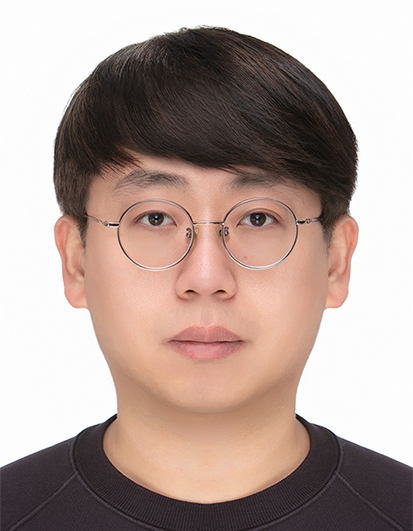
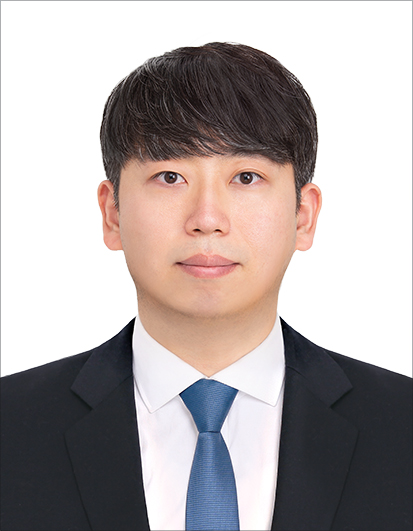
Correct project titles and refine member publication details

diff --git a/.design-preview/style-modern.css b/.design-preview/style-modern.css
@@ -338,8 +338,19 @@ body {
 .member-list .member-row:last-child:nth-child(odd) { grid-column: 1 / -1; }
 
 .member-data dd {
+  overflow: visible;
   white-space: normal;
+  overflow-wrap: anywhere;
+  text-overflow: clip;
   line-height: 1.45;
+}
+
+.member-info { padding: 15px 18px; }
+.member-info h3 { margin-bottom: 8px; }
+.member-data { gap: 3px; }
+.member-data > div {
+  grid-template-columns: 56px minmax(0, 1fr);
+  gap: 5px;
 }
 
 .portrait-placeholder {
@@ -537,87 +548,49 @@ body {
 .course-code { color: #8c4437; }
 
 .publication-list {
-  display: grid;
-  gap: 50px;
-  border: 0;
-}
-
-.publication-year-group {
-  display: grid;
-  padding-top: 24px;
-  border-top: 1px solid #b8bcba;
-  grid-template-columns: 112px minmax(0, 1fr);
-  gap: 38px;
-}
-
-.publication-year-heading h2 {
-  margin: 0;
-  color: #22292e;
-  font-size: 1.35rem;
-  font-weight: 650;
-  letter-spacing: -0.025em;
-  line-height: 1.2;
-}
-
-.publication-year-heading span {
   display: block;
-  margin-top: 7px;
-  color: #737a7e;
-  font-size: 0.7rem;
-  font-weight: 550;
+  border-top: 1px solid #b8bcba;
 }
-
-.publication-entries { min-width: 0; }
 
 .publication-item {
   position: relative;
   display: block;
-  padding: 0 0 22px;
+  padding: 19px 8px 20px;
   border: 0;
   border-bottom: 1px solid #d2d4d1;
-  margin: 0 0 21px;
+  margin: 0;
   background: transparent;
 }
 
-.publication-item:last-child { margin-bottom: 0; }
-
-.publication-item h3 {
+.publication-item h2 {
   margin: 0;
   color: #1d2226;
   font-family: var(--font-heading);
-  font-size: 1rem;
-  font-weight: 620;
+  font-size: 0.98rem;
+  font-weight: 600;
   letter-spacing: -0.015em;
-  line-height: 1.48;
+  line-height: 1.32;
 }
 
 .publication-authors {
-  margin: 7px 0 0;
+  margin: 9px 0 0;
   color: #30383d;
-  font-size: 0.9rem;
+  font-size: 0.89rem;
   font-weight: 500;
-  line-height: 1.55;
+  line-height: 1.4;
 }
 
 .publication-venue {
-  margin: 4px 0 0;
-  color: #4f585d;
-  font-size: 0.88rem;
-  line-height: 1.5;
-}
-
-.publication-type {
-  display: inline-block;
-  margin-top: 8px;
-  border-radius: 0;
-  color: #565d62;
-  background: transparent;
-  font-size: 0.68rem;
-  font-weight: 650;
+  margin: 6px 0 0;
+  color: #485157;
+  font-size: 0.87rem;
+  font-style: normal;
+  font-weight: 500;
+  line-height: 1.4;
 }
 .publication-link { color: inherit; text-decoration: none; }
 .publication-link:hover { background: transparent; }
-.publication-link:hover h3 { color: #8c4437; }
+.publication-link:hover h2 { color: #8c4437; }
 
 .project-list {
   display: grid;
@@ -816,9 +789,6 @@ body {
   .section { padding: 70px 0 82px; }
   .section-heading { gap: 18px; }
   .news-grid { gap: 42px; }
-  .publication-year-group { grid-template-columns: 1fr; gap: 20px; }
-  .publication-year-heading { display: flex; align-items: baseline; gap: 9px; }
-  .publication-year-heading span { margin-top: 0; }
   .project-item.has-image { grid-template-columns: 1fr; }
   .project-visual { min-height: 210px; border-top: 1px solid #c7cac8; border-left: 0; }
 }

diff --git a/publications/index.html b/publications/index.html
@@ -9,24 +9,12 @@ lang: en
 <section class="section alt"><div class="shell">
   {% if publications.size > 0 %}
   <div class="publication-list">
-    {% assign publication_years = publications | group_by: 'year' %}
-    {% for year_group in publication_years %}
-    <section class="publication-year-group" aria-labelledby="publications-{{ year_group.name }}">
-      <header class="publication-year-heading">
-        <h2 id="publications-{{ year_group.name }}">{{ year_group.name }}</h2>
-        <span>{{ year_group.items.size }}{% if year_group.items.size == 1 %} paper{% else %} papers{% endif %}</span>
-      </header>
-      <div class="publication-entries">
-      {% for item in year_group.items %}
-        {% if item.link %}<a class="publication-item publication-link" href="{{ item.link }}" target="_blank" rel="noopener">{% else %}<article class="publication-item">{% endif %}
-          <h3>{{ item.title }}</h3>
-          <p class="publication-authors">{{ item.authors }}</p>
-          {% if item.venue %}<p class="publication-venue"><em>{{ item.venue }}</em></p>{% endif %}
-          {% if item.publication_type and item.publication_type != 'Journal' %}<span class="publication-type">{{ item.publication_type }}</span>{% endif %}
-        {% if item.link %}</a>{% else %}</article>{% endif %}
-      {% endfor %}
-      </div>
-    </section>
+    {% for item in publications %}
+      {% if item.link %}<a class="publication-item publication-link" href="{{ item.link }}" target="_blank" rel="noopener">{% else %}<article class="publication-item">{% endif %}
+        <h2>{{ item.title }}</h2>
+        <p class="publication-authors">{{ item.authors }}</p>
+        <p class="publication-venue">{% if item.venue %}{{ item.venue }}{% endif %}{% if item.venue and item.year %}<span aria-hidden="true">, </span>{% endif %}{% if item.year %}{{ item.year }}{% endif %}</p>
+      {% if item.link %}</a>{% else %}</article>{% endif %}
     {% endfor %}
   </div>
   {% else %}

diff --git a/projects/index.html b/projects/index.html
@@ -19,8 +19,8 @@ section: projects
           <span class="project-role">{{ item.role }}</span>
         </div>
         <h2>{{ item.title }}</h2>
-        <p class="project-agency">{{ item.agency }}</p>
-        {% if item.program %}<p class="project-program">{{ item.program }}</p>{% endif %}
+        {% if item.agency != empty %}<p class="project-agency">{{ item.agency }}</p>{% endif %}
+        {% if item.program != empty %}<p class="project-program">{{ item.program }}</p>{% endif %}
       </div>
       {% if item.image %}
       <figure class="project-visual"><img src="{{ item.image | relative_url }}" alt="{{ item.title }} 대표 이미지"></figure>

diff --git a/_cms_projects/10-metal-3d-printing-multiresolution.md b/_cms_projects/10-metal-3d-printing-multiresolution.md
@@ -1,5 +1,5 @@
 ---
-title: 유한요소법-평활입자유체동역학(FEM-SPH) 커플링을 통한 금속 3D 프린팅 공정의 다해상도 시뮬레이션
+title: FEM-SPH 커플링을 통한 금속 3D 프린팅 공정의 다해상도 시뮬레이션
 agency: 교육부(한국연구재단)
 program: 이공분야학문후속세대 양성 박사후국내연수
 start_date: 2021-09-01
@@ -7,4 +7,3 @@ end_date: 2023-08-31
 role: 연구책임자
 published: true
 ---
-

diff --git a/_cms_members/lee-chaemin.md b/_cms_members/lee-chaemin.md
@@ -2,7 +2,7 @@
 name: 이채민
 group: Principal Investigator
 degree: 한국과학기술원(KAIST) 기계공학 박사
-research: 전산역학, 다물리 시뮬레이션, 인공지능 기반 진단 및 예지, 구조 건전성 및 위험성 평가
+research: 전산역학, 다물리 시뮬레이션, 인공지능 기반 진단 및 예지, 구조 건전성 평가
 email: clee@cbnu.ac.kr
 photo: /images/members/lee-chaemin.jpg
 order: 1

diff --git a/_cms_projects/02-wolsong-pipe-support-integrity.md b/_cms_projects/02-wolsong-pipe-support-integrity.md
@@ -1,5 +1,5 @@
 ---
-title: 월성 2, 3, 4호기 안전등급 배관지지대 배관 건전성 평가 용역
+title: 월성 2,3,4호기 안전등급 배관지지대 배관 건전성 평가 용역
 agency: 한국압력기기공학회
 program: 연구용역
 start_date: 2026-03-16
@@ -7,4 +7,3 @@ end_date: 2027-02-28
 role: 공동연구책임자
 published: true
 ---
-

diff --git a/_cms_projects/08-electric-vehicle-drivetrain-phm.md b/_cms_projects/08-electric-vehicle-drivetrain-phm.md
@@ -1,5 +1,5 @@
 ---
-title: 전기차 드라이브 트레인 건전성 관리 및 예지보전(PHM) 기술 개발
+title: 전기차 드라이브 트레인 PHM 기술 개발
 agency: 충북대학교
 program: 4단계 BK21사업 신임교원 정착 연구지원
 start_date: 2023-06-01
@@ -7,4 +7,3 @@ end_date: 2024-01-31
 role: 연구책임자
 published: true
 ---
-

diff --git a/_cms_projects/05-reduced-order-model-program.md b/_cms_projects/05-reduced-order-model-program.md
@@ -1,5 +1,5 @@
 ---
-title: 축소차수모델(Reduced-Order Model, ROM) 기반 선형 정적 해석 프로그램 개발
+title: Reduced-Order Model(ROM) 기반 선형 정적 해석 프로그램 개발
 agency: 삼성중공업㈜
 program: 연구용역
 start_date: 2024-01-01
@@ -7,4 +7,3 @@ end_date: 2024-10-31
 role: 공동연구책임자
 published: true
 ---
-

diff --git a/_cms_members/lee-seoyeong.md b/_cms_members/lee-seoyeong.md
@@ -1,9 +1,9 @@
 ---
 name: 이서영
 group: Undergraduate Researcher
-degree: ""
-research: 데이터 기반 모델링 및 공학 시뮬레이션
-email: ""
+degree: 학부연구생
+research: 수치해석
+email: syleeqwerty@chungbuk.ac.kr
 photo: /images/members/lee-seoyeong.png
 order: 4
 published: true

diff --git a/_cms_members/kim-seonghyeon.md b/_cms_members/kim-seonghyeon.md
@@ -1,9 +1,9 @@
 ---
 name: 김성현
 group: Undergraduate Researcher
-degree: ""
-research: 구조 안전 및 수치 시뮬레이션
-email: ""
+degree: 학부연구생
+research: 인공지능 응용
+email: blacksh0103@chungbuk.ac.kr
 photo: /images/members/kim-seonghyeon.png
 order: 5
 published: true

diff --git a/_cms_members/hong-donghyeon.md b/_cms_members/hong-donghyeon.md
@@ -1,9 +1,9 @@
 ---
 name: 홍동현
 group: M.S. Student
-degree: ""
-research: 유한요소해석 및 구조 안전
-email: ""
+degree: 석사과정
+research: 수치해석, 로봇 기반 고장진단
+email: hdh4459@chungbuk.ac.kr
 photo: /images/members/hong-donghyeon.png
 order: 2
 published: true

diff --git a/_cms_projects/09-bolted-structure-integrity.md b/_cms_projects/09-bolted-structure-integrity.md
@@ -1,10 +1,9 @@
 ---
 title: 기계학습 기반의 볼트 체결 구조물 건전성 평가 알고리즘 개발
-agency: 충북대학교 산학협력단
-program: 신진교수연구비
+agency: ""
+program: ""
 start_date: 2022-09-01
 end_date: 2024-08-31
 role: 연구책임자
 published: true
 ---
-
